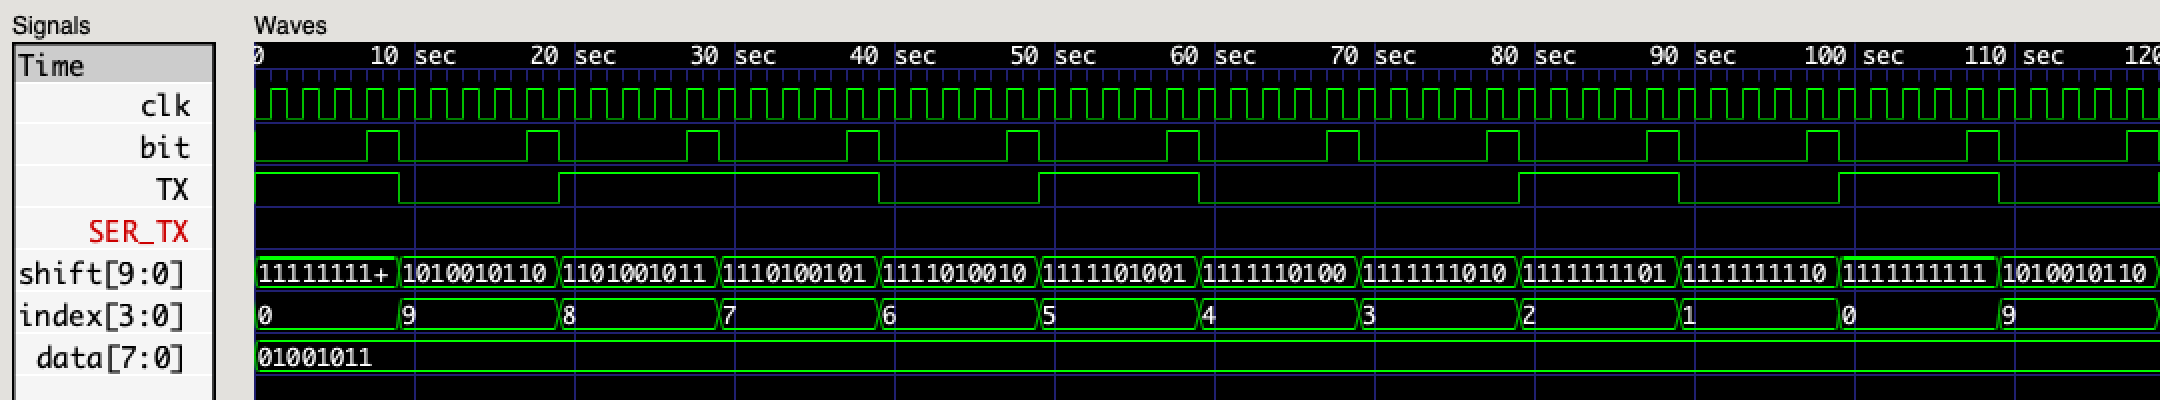
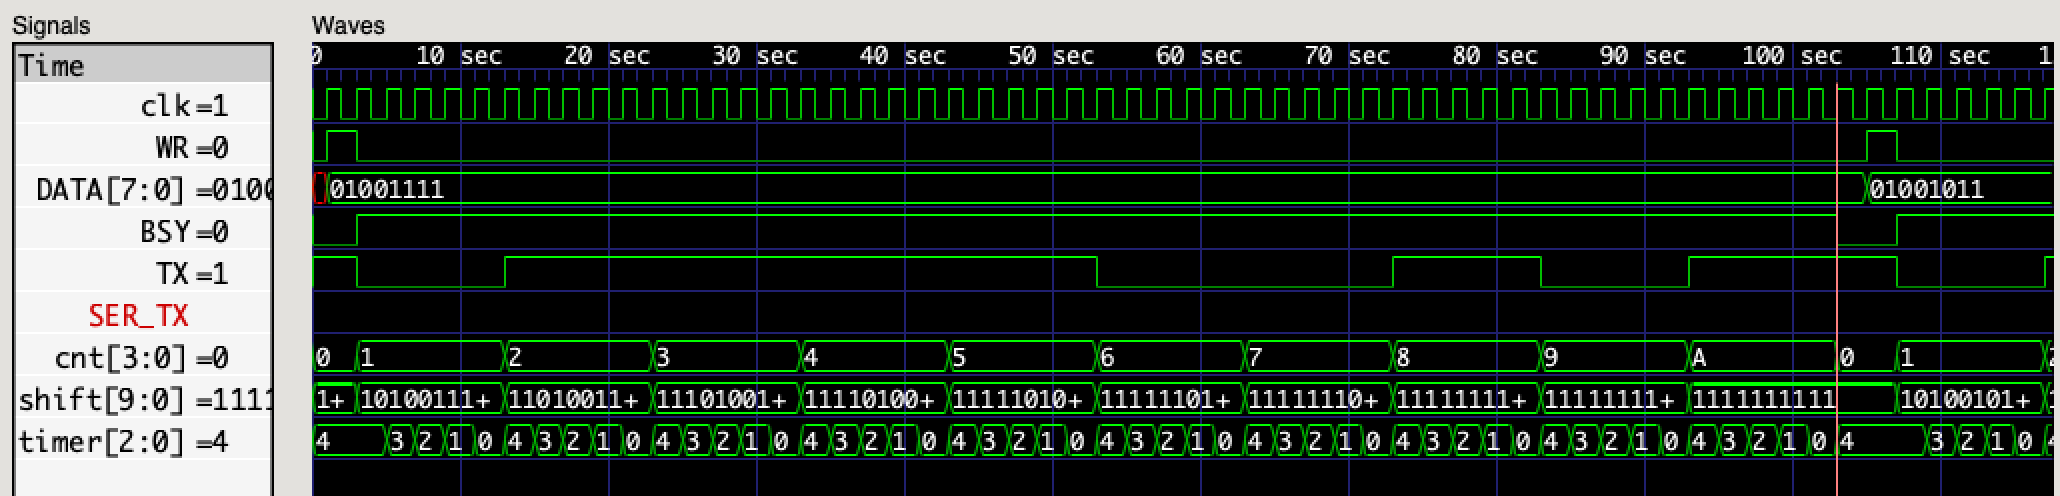
serial_tx revisited

diff --git a/tutorial/uart/README.md b/tutorial/uart/README.md
@@ -681,6 +681,126 @@ Examine the waveform traces with GTKWave.
 
 ![test_bench.vcd](serial_rx_vcd.png)
 
+### Serial Transmitter (revisited)
+
+```verilog
+// serial_tx.v
+//
+// serial transmitter
+//
+
+`include "uart.vh"
+
+module serial_tx #(
+  parameter CLK_FREQ = 48_000_000,      // clock frequency (Hz)
+  parameter BIT_FREQ = 115_200          // baud rate (bits per second)
+) (
+  input            clk,                 // system clock
+  input            wr,                  // write data
+  input      [7:0] data,                // octet to transmit
+  output           busy,                // transmit busy
+  output           tx                   // transmit data
+);
+
+  // transmit baud-rate timer
+  localparam BIT_PERIOD = CLK_FREQ / BIT_FREQ;
+  localparam FULL_BIT_TIME = BIT_PERIOD - 1;
+  localparam N_TIMER = $clog2(BIT_PERIOD);
+  reg [N_TIMER-1:0] timer = FULL_BIT_TIME;
+
+  reg [9:0] shift = { 10 { `IDLE_BIT } };  // transmit shift-register
+  reg [3:0] cnt = 0;  // bit counter
+
+  // transmitter state-machine
+  always @(posedge clk)
+    if (cnt == 0)  // transmitter idle
+      if (wr)
+        begin
+          timer <= FULL_BIT_TIME;
+          shift <= { `STOP_BIT, data, `START_BIT };  // load data into shift-register
+          cnt <= 1;  // start counting bits
+        end
+      else
+        shift = { 10 { `IDLE_BIT } };  // reset shift-register
+    else if (timer)
+      timer <= timer - 1'b1;
+    else
+      begin
+        timer <= FULL_BIT_TIME;
+        shift <= { `IDLE_BIT, shift[9:1] };  // shift to next output bit
+        cnt <= (cnt < 10) ? cnt + 1'b1 : 0;  // increment (or reset) bit counter
+      end
+
+  assign busy = (cnt != 0);  // transmitter is busy when counting
+  assign tx = shift[0];  // transmit LSB of shift register
+
+endmodule
+```
+
+```verilog
+// serial_tx_tb.v
+//
+// simulation test bench for baud_gen.v + serial_tx.v
+//
+
+module test_bench;
+
+  // dump simulation signals
+  initial
+    begin
+      $dumpfile("test_bench.vcd");
+      $dumpvars(0, test_bench);
+      #240;
+      $finish;
+    end
+
+  // generate chip clock
+  reg clk = 0;
+  always
+    #1 clk = !clk;
+
+  // instantiate serial transmitter
+  reg [7:0] DATA;
+  reg WR = 1'b0;
+  wire BSY;
+  wire TX;
+  serial_tx #(
+    .CLK_FREQ(16),
+    .BIT_FREQ(3)
+  ) SER_TX (
+    .clk(clk),
+    .wr(WR),
+    .data(DATA),
+    .busy(BSY),
+    .tx(TX)
+  );
+
+  // character sequencer
+  reg N = 0;
+  always @(posedge clk)
+    if (!BSY)
+      if (!WR)
+        begin
+          DATA <= (N == 0) ? "O" : "K";
+          WR <= 1'b1;
+          N <= N + 1'b1;
+        end
+      else
+        WR <= 1'b0;
+
+endmodule
+```
+
+```
+$ iverilog -o test_bench.sim serial_tx.v serial_tx_tb.v
+$ ./test_bench.sim 
+VCD info: dumpfile test_bench.vcd opened for output.
+```
+
+Examine the waveform traces with GTKWave.
+
+![test_bench.vcd](serial_tx_vcd.png)
+
 ### Links
 
  * [UART (Wikipedia)](https://en.wikipedia.org/wiki/Universal_asynchronous_receiver-transmitter)
